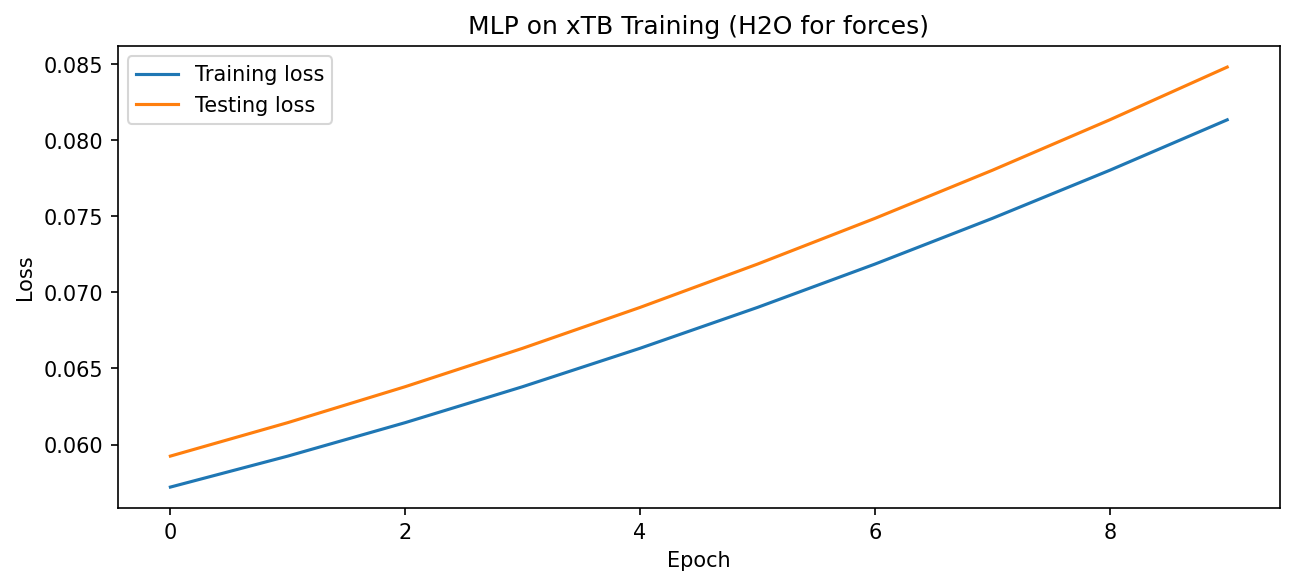
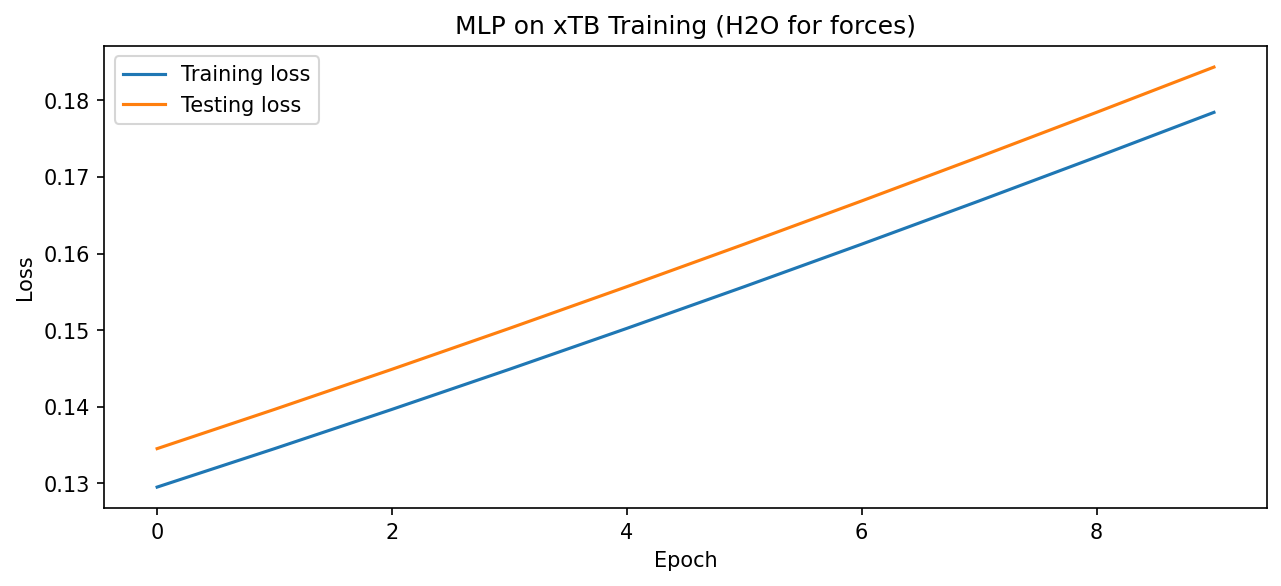
implementing minimum image convention calculation

diff --git a/master_training.py b/master_training.py
@@ -453,16 +453,22 @@ def molecules_to_tensors(molecules, device):
         # 4. Positions (requires_grad=True)
         pos_t = torch.tensor(pos, dtype=torch.float32, device=device, requires_grad=True)
 
+        
         # 5. LJ forces
         F_atom_t = torch.tensor(F_atom, dtype=torch.float32, device=device)
 
-        samples.append((node_t, edge_t, trip_t, pos_t, E_total, F_atom_t, N, els))
+
+        #6. atoms object cell length
+        cell_t = torch.tensor(atoms.cell.lengths(), dtype=torch.float32, device=device)
+        
+        samples.append((node_t, edge_t, trip_t, pos_t, E_total, F_atom_t, N, els, cell_t))
         targets_E.append(E_total)
 
     return samples, targets_E
 
+
 # everything here should be in pytorch 
-def edge_features_torch(pos_t, elements, cutoff: float = 4.0):
+def edge_features_torch(pos_t, elements, cell_size, cutoff: float = 4.0):
     """For autograd to generate forces"""
     N = len(elements)
     pairs = torch.triu_indices(row=N, col=N, offset=1) # unique pairs of atom indices
@@ -470,11 +476,16 @@ def edge_features_torch(pos_t, elements, cutoff: float = 4.0):
     
     i_idx = pairs[0]
     j_idx = pairs[1]
-    diff = pos_t[i_idx] - pos_t[j_idx]
+
+    # minimum image convention distance 
+    raw_diff = pos_t[i_idx] - pos_t[j_idx]
+    
+    diff = raw_diff - cell_size * torch.round(raw_diff / cell_size)
+
     dists = torch.norm(diff, dim=-1)
     mask = dists < cutoff 
     dists = dists[mask] # applying cutoff for meaningful distances
-    print(f'shape of distsL {dists.shape}')
+    
     log_prods = torch.tensor([log_primes[elements[i]] + log_primes[elements[j]]
                          for i, j in zip(i_idx.tolist(), j_idx.tolist())], dtype=pos_t.dtype)
     
@@ -521,9 +532,10 @@ def collate_fn(batch):
     F_batch = [b[5] for b in batch]
     N_batch = [b[6] for b in batch]
     elements_batch = [b[7] for b in batch]
+    cellsize_batch =[b[8] for b in batch]
 
     return (node_batch, edge_batch, triplet_batch, pos_batch,
-            E_total_batch, F_batch, N_batch, elements_batch)
+            E_total_batch, F_batch, N_batch, elements_batch, cellsize_batch)
 
 
 def train_model_energy_forces(model, train_loader, test_loader, optimizer, epochs):
@@ -542,7 +554,7 @@ def train_model_energy_forces(model, train_loader, test_loader, optimizer, epoch
         epoch_force_loss = 0.0
 
         for (node_batch, edge_batch, triplet_batch, pos_batch,
-             E_total_tar, F_tar, N_batch, elements_batch) in train_loader:
+             E_total_tar, F_tar, N_batch, elements_batch, cellsize_batch) in train_loader:
 
             batch_size = len(E_total_tar)
             optimizer.zero_grad()
@@ -552,7 +564,7 @@ def train_model_energy_forces(model, train_loader, test_loader, optimizer, epoch
 
             for i in range(batch_size):
                 node_i = node_batch[i]
-
+                cell_i = cellsize_batch[i]
                 F_tar_i = F_tar[i]
                 elements_i = elements_batch[i]
                 
@@ -560,7 +572,7 @@ def train_model_energy_forces(model, train_loader, test_loader, optimizer, epoch
                 
                 N = N_batch[i]
                 # computing edge features in training to access forces
-                edge_i = edge_features_torch(pos_i, elements_i)
+                edge_i = edge_features_torch(pos_i, elements_i, cell_i)
 
                 # computing triplet features to access forces
                 trip_i = triplet_features_torch(edge_i)
@@ -601,16 +613,18 @@ def train_model_energy_forces(model, train_loader, test_loader, optimizer, epoch
 
         test_epoch_energy = torch.tensor(0.0, device=device) 
         test_epoch_force = torch.tensor(0.0, device=device)
+        
         with torch.enable_grad():
             # force evaluation 
             for (node_batch, edge_batch, triplet_batch, pos_batch,
-                    E_total_tar,F_tar, N_batch, elements_batch) in test_loader:
+                    E_total_tar,F_tar, N_batch, elements_batch, cellsize_batch) in test_loader:
                 batch_size = len(E_total_tar)
 
                 batch_energy_loss = 0.0
                 batch_force_loss = 0.0
                 for i in range(batch_size):
                     node_i = node_batch[i]
+                    cell_i = cellsize_batch[i]
                     #edge_i = edge_batch[i]
                     #trip_i = triplet_batch[i]
                     F_tar_i = F_tar[i]
@@ -619,7 +633,7 @@ def train_model_energy_forces(model, train_loader, test_loader, optimizer, epoch
                     N = N_batch[i]
 
                     pos_i = pos_batch[i].clone().detach().requires_grad_(True)
-                    edge_i = edge_features_torch(pos_i, elements_i)
+                    edge_i = edge_features_torch(pos_i, elements_i, cell_i)
                     trip_i = triplet_features_torch(edge_i)
                     E_pred = model.forward_energy(node_i, edge_i, trip_i)
                     loss_E = (E_pred - E_total_tar[i])**2
@@ -690,8 +704,7 @@ def train_all(model_name, model_class, train_loader, test_loader, epochs=100, lr
         
     optimizer = optim.Adam(model.parameters(), lr)
 
-    if model_name == 'Message Passing':
-        # pass correct parameters and train
+    # add message passing 
 
     train_energy_losses, test_energy_losses, train_force_losses, test_force_losses = train_model_energy_forces(model, train_loader, test_loader, optimizer, epochs)
     model.save(model_filename)
@@ -763,9 +776,9 @@ def main():
     print("Beginning to train models...")
 
     models = {
-    #'MLP': WedgeMLP,
+    'MLP': WedgeMLP
     #'Convolutional':ConvNet,
-    'Message Passing': MP_MLP
+    #Message Passing': MP_MLP
     }
     results ={}
 
